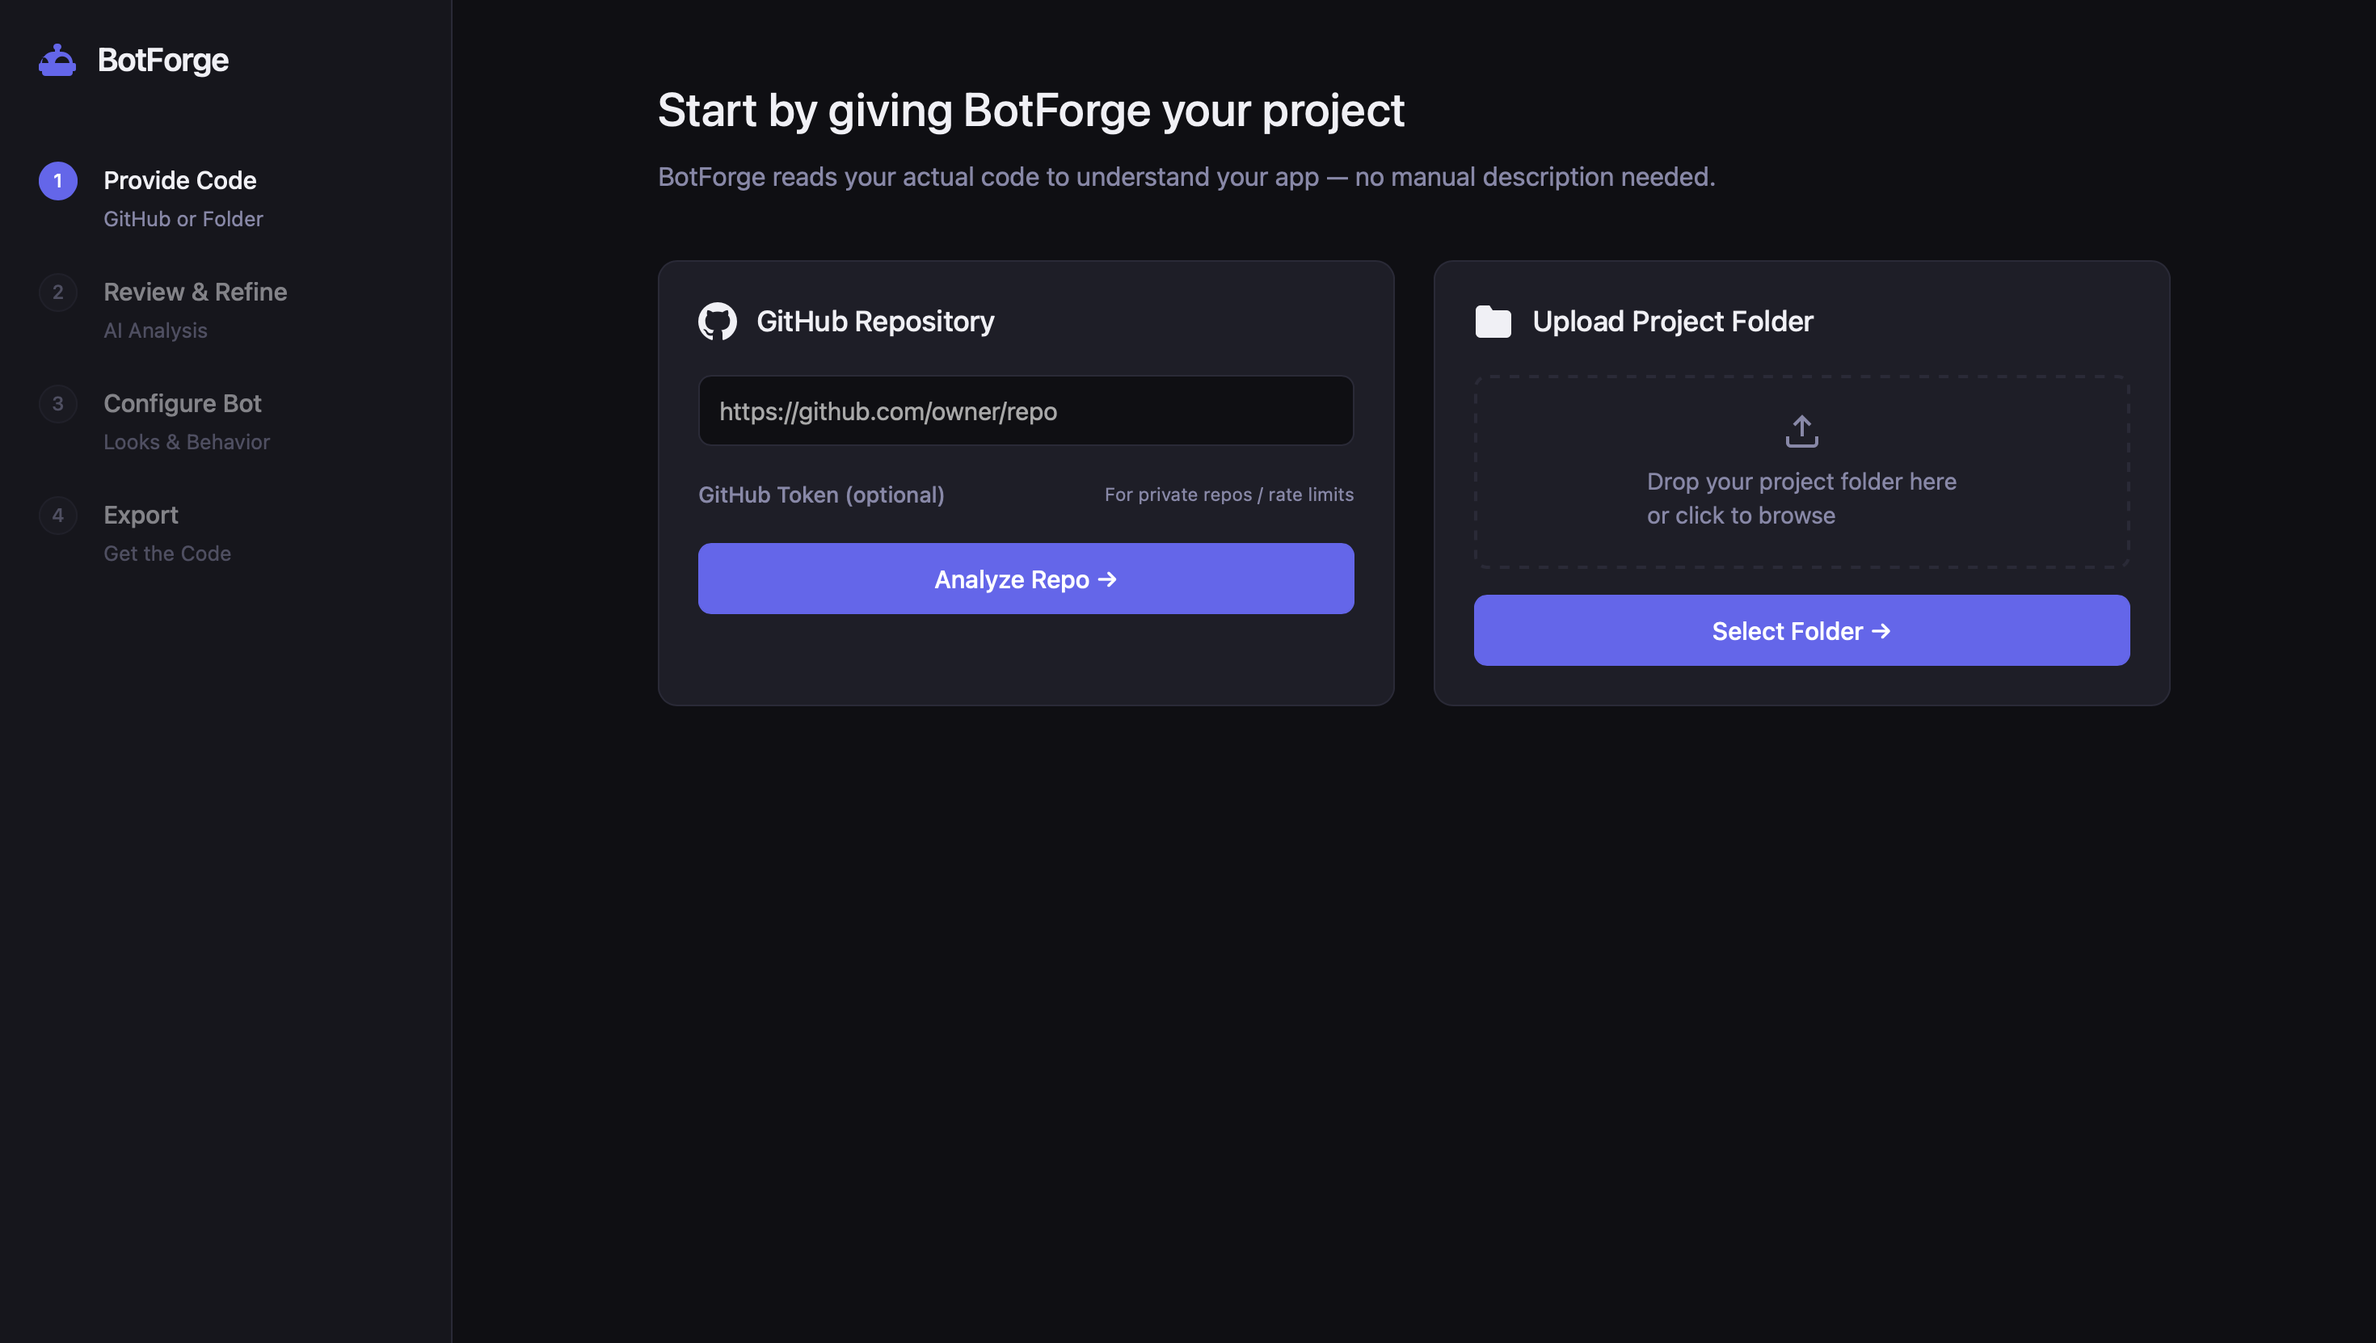
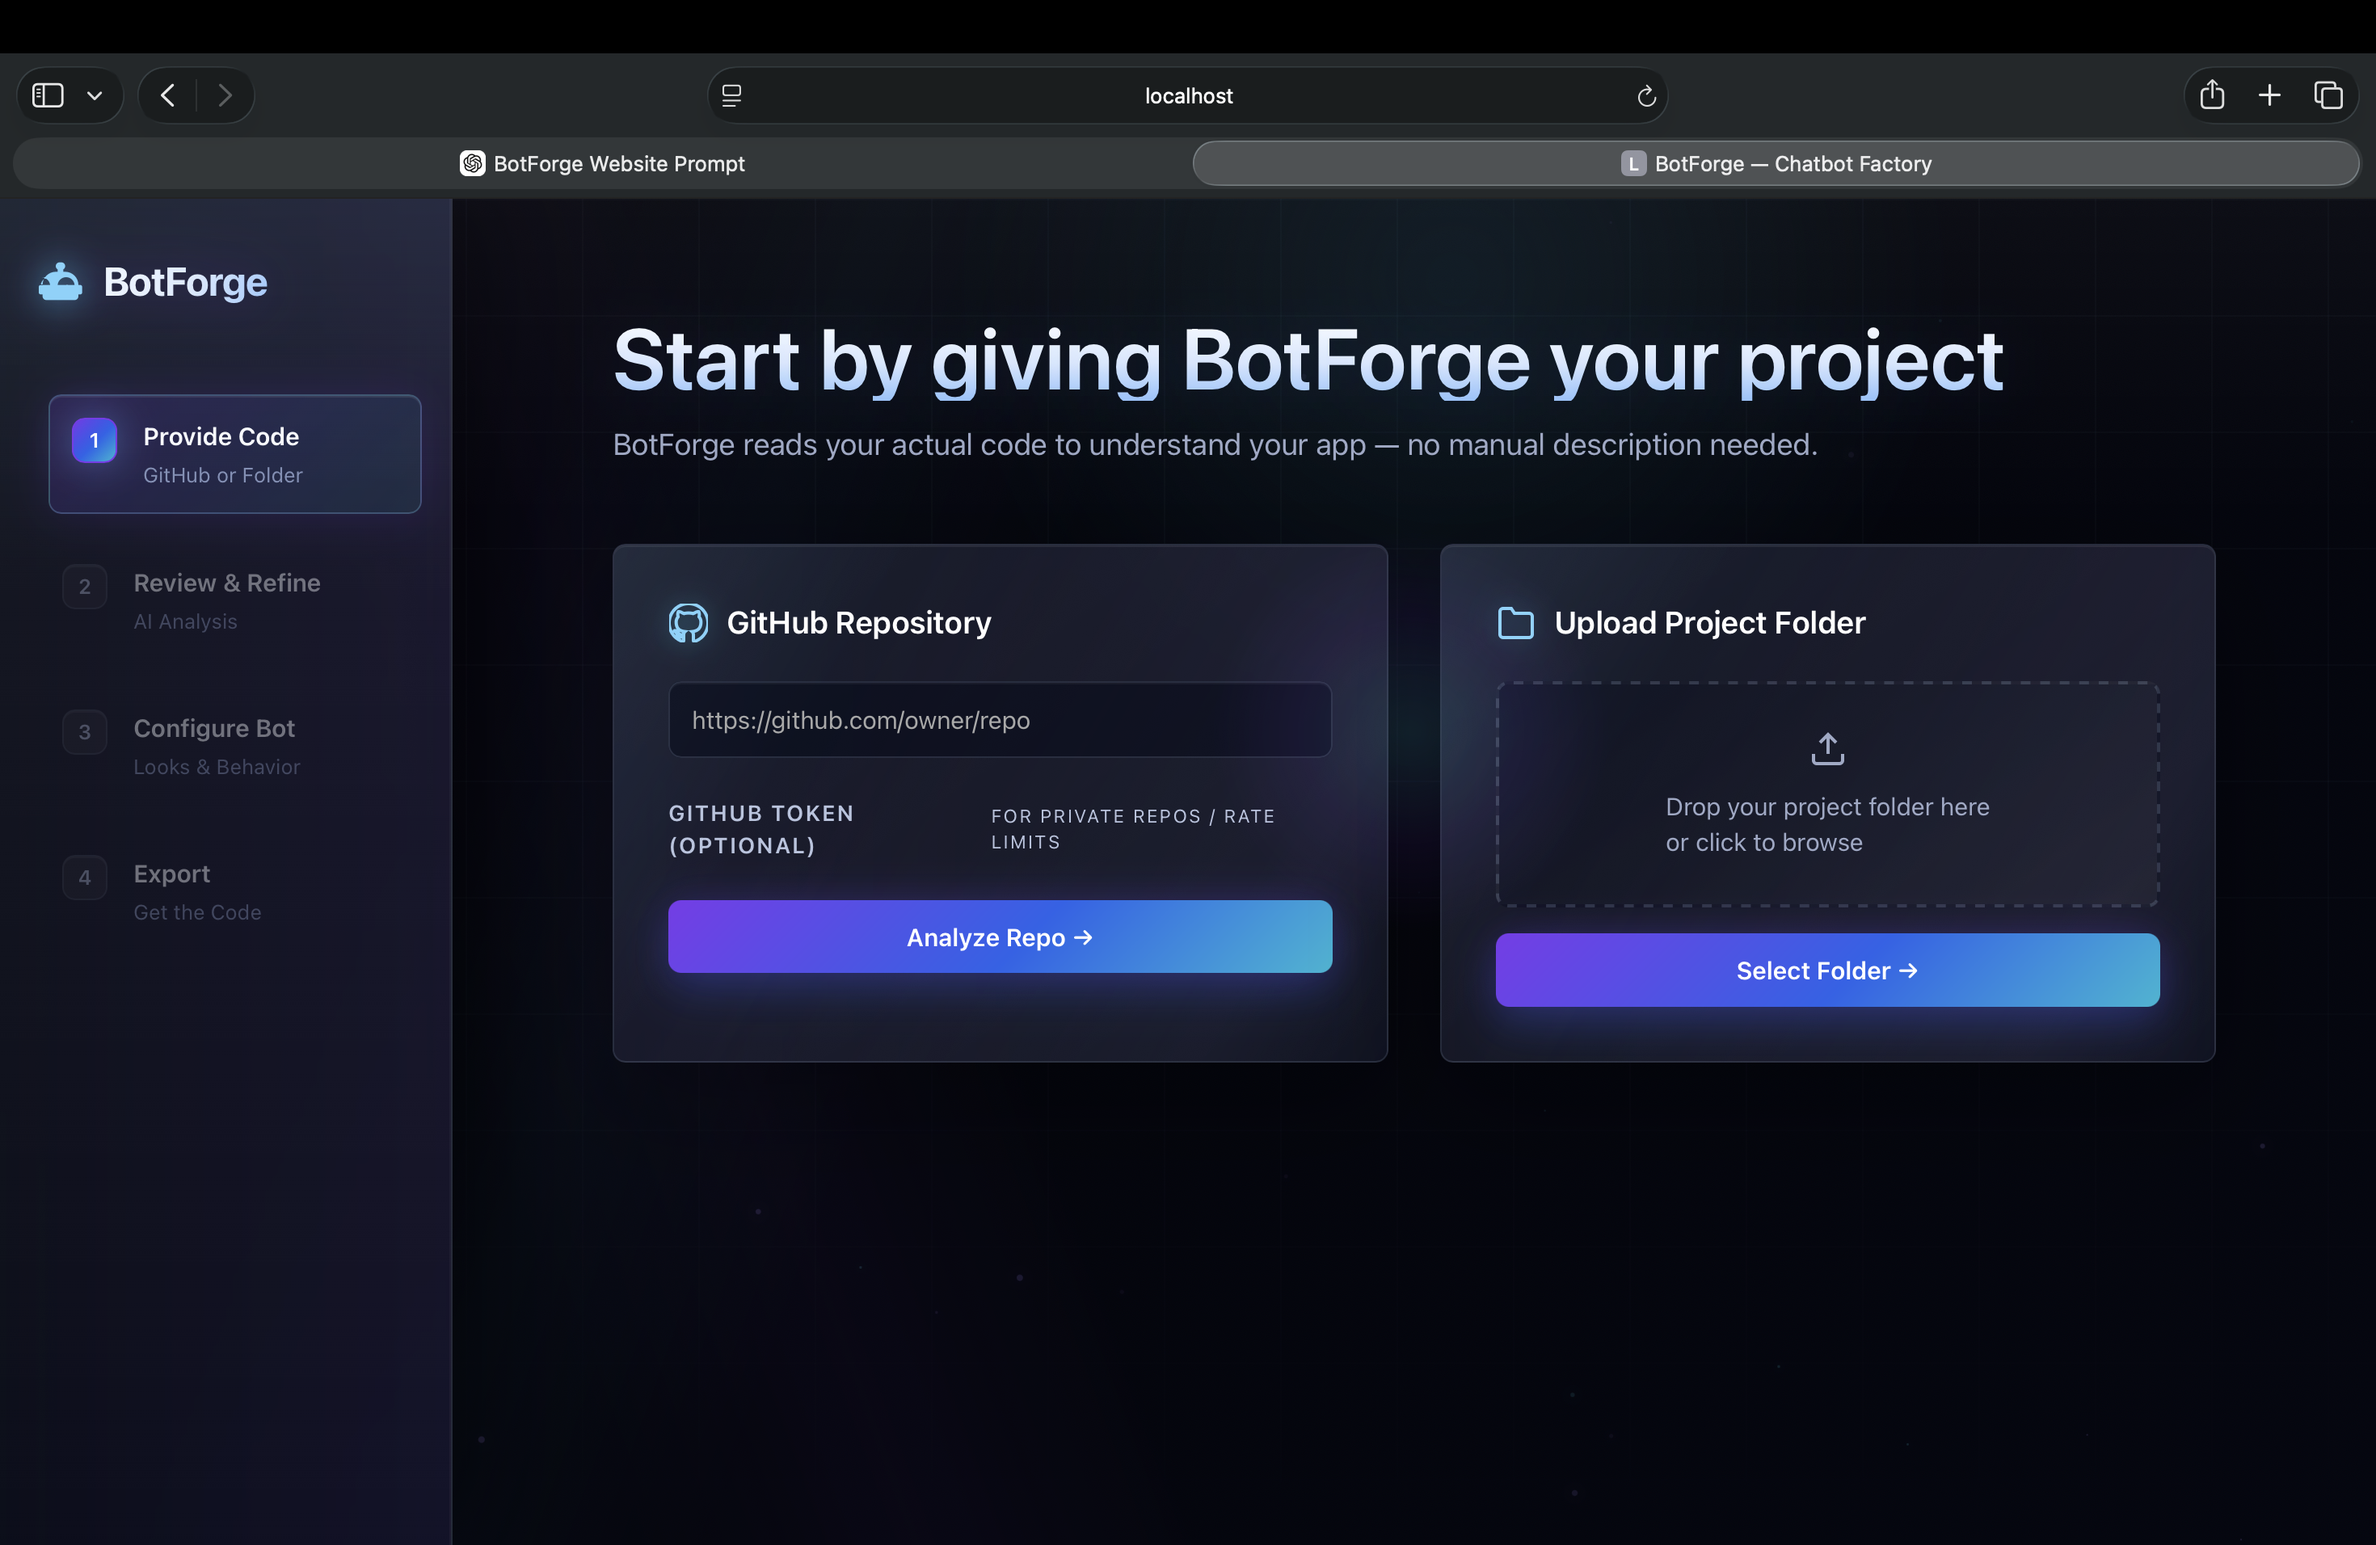
Add JARVIS project, update BotForge image dimensions, and make project images clickable

diff --git a/sections/work.html b/sections/work.html
@@ -37,6 +37,14 @@
               </div>
               <div class="pni-bar"><div class="pni-bar-fill"></div></div>
             </div>
+            <div class="proj-nav-item" data-proj="3">
+              <span class="pni-num">04</span>
+              <div class="pni-info">
+                <span class="pni-name">JARVIS</span>
+                <span class="pni-tag">Local AI · 2024-Pres</span>
+              </div>
+              <div class="pni-bar"><div class="pni-bar-fill"></div></div>
+            </div>
           </div>
 
           <!-- Showcase carousel -->
@@ -44,7 +52,7 @@
             <div class="carousel-slides" id="cslides">
               <div class="c-slide">
                 <div class="c-slide-text">
-                  <div class="slide-num">SLIDE 01 / 03</div>
+                  <div class="slide-num">SLIDE 01 / 04</div>
                   <div class="slide-title">RetirePRO</div>
                   <div class="slide-sub">Professional Recruitment Platform</div>
                   <p class="slide-desc">A comprehensive recruitment platform featuring resume analysis AI, file upload &amp; verification, and automated workflows.</p>
@@ -55,11 +63,11 @@
                     <span class="tag">Workflow Automation</span>
                   </div>
                 </div>
-                <div class="device"><img src="images/work/retirepro.png" alt="RetirePRO" class="device-img" width="2932" height="1660" loading="lazy" decoding="async"></div>
+                <div class="device"><img src="images/work/retirepro.png" alt="RetirePRO" class="device-img" width="2932" height="1660" loading="lazy" decoding="async" onclick="openCertModal(this.src)"></div>
               </div>
               <div class="c-slide">
                 <div class="c-slide-text">
-                  <div class="slide-num">SLIDE 02 / 03</div>
+                  <div class="slide-num">SLIDE 02 / 04</div>
                   <div class="slide-title">ISLbridge</div>
                   <div class="slide-sub">Real Time Sign Language Translating Platform</div>
                   <p class="slide-desc">A platform for real-time sign language translation using machine learning, featuring an AI assistant and user progress tracking.</p>
@@ -70,11 +78,11 @@
                     <span class="tag">User Progress Tracking</span>
                   </div>
                 </div>
-                <div class="device"><img src="images/work/ISLBridge.png" alt="ISLBridge" class="device-img" width="2940" height="1648" loading="lazy" decoding="async"></div>
+                <div class="device"><img src="images/work/ISLBridge.png" alt="ISLBridge" class="device-img" width="2940" height="1648" loading="lazy" decoding="async" onclick="openCertModal(this.src)"></div>
               </div>
               <div class="c-slide">
                 <div class="c-slide-text">
-                  <div class="slide-num">SLIDE 03 / 03</div>
+                  <div class="slide-num">SLIDE 03 / 04</div>
                   <div class="slide-title">BotForge</div>
                   <div class="slide-sub">AI Assistant Builder for Websites</div>
                   <p class="slide-desc">Build custom AI assistants that understand your website content with a strong focus on privacy and no data theft.</p>
@@ -85,7 +93,22 @@
                     <span class="tag">Privacy Focused</span>
                   </div>
                 </div>
-                <div class="device"><img src="images/work/botforge.png" alt="BotForge" class="device-img" width="2940" height="1662" loading="lazy" decoding="async"></div>
+                <div class="device"><img src="images/work/botforge.png" alt="BotForge" class="device-img" width="2940" height="1912" loading="lazy" decoding="async" onclick="openCertModal(this.src)"></div>
+              </div>
+              <div class="c-slide">
+                <div class="c-slide-text">
+                  <div class="slide-num">SLIDE 04 / 04</div>
+                  <div class="slide-title">JARVIS</div>
+                  <div class="slide-sub">Local AI Assistant</div>
+                  <p class="slide-desc">A fully offline AI assistant for Windows using Ollama, faster-whisper, and edge-tts. Features gesture control via MediaPipe and hands-free system interaction.</p>
+                  <div class="tags">
+                    <span class="tag">Python</span>
+                    <span class="tag">Ollama (Llama 3.2)</span>
+                    <span class="tag">MediaPipe</span>
+                    <span class="tag">Zero Cloud Dependency</span>
+                  </div>
+                </div>
+                <div class="device"><img src="images/work/jarvis.png" alt="JARVIS" class="device-img" width="2940" height="1912" loading="lazy" decoding="async" onclick="openCertModal(this.src)"></div>
               </div>
             </div>
             <div class="c-nav">
@@ -94,6 +117,7 @@
                 <div class="cdot on" data-i="0"></div>
                 <div class="cdot" data-i="1"></div>
                 <div class="cdot" data-i="2"></div>
+                <div class="cdot" data-i="3"></div>
               </div>
               <button class="c-btn" id="cnext" aria-label="Next slide">→</button>
             </div>

diff --git a/script.js b/script.js
@@ -715,7 +715,7 @@
           dots = $$(".cdot"),
           projectItems = $$(".proj-nav-item");
         function go(n) {
-          idx = (n + 3) % 3;
+          idx = (n + dots.length) % dots.length;
           if (slides) slides.style.transform = "translateX(-" + idx * 100 + "%)";
           dots.forEach((d, i) => d.classList.toggle("on", i === idx));
           // Sync project nav

diff --git a/style.css b/style.css
@@ -1559,6 +1559,7 @@
         height: 100%;
         object-fit: cover;
         transform: translate3d(0, 0, 0);
+        cursor: pointer;
       }
       .coming-slide {
         height: 240px;
